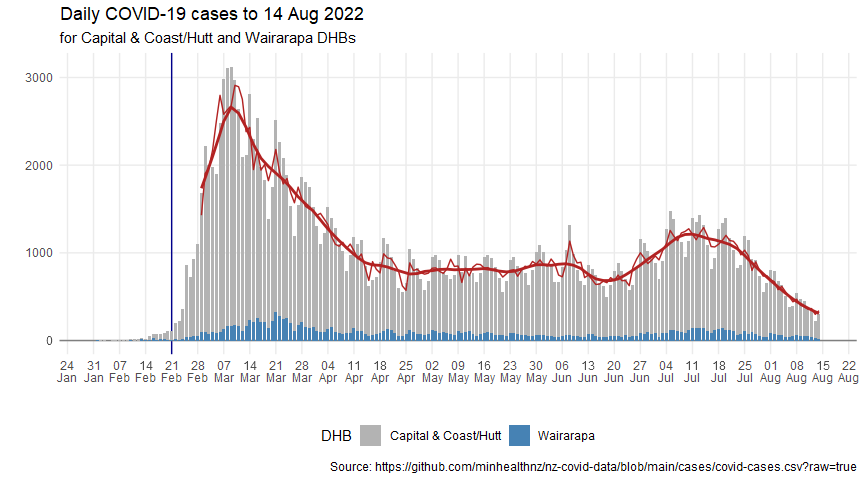
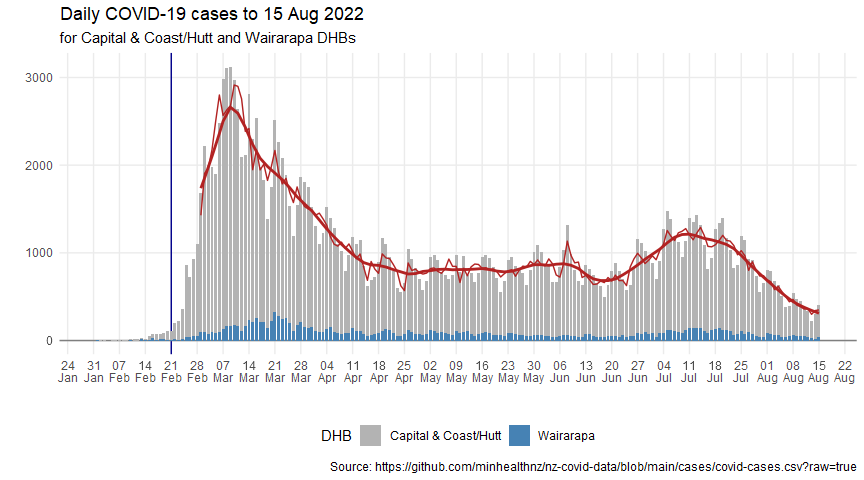
Update for 20220816

diff --git a/covid-post-peak-analysis.md b/covid-post-peak-analysis.md
@@ -29,7 +29,7 @@ cases_df <- read_csv(case_data_url) %>%
   clean_names()
 ```
 
-    ## Rows: 1691261 Columns: 7
+    ## Rows: 1696239 Columns: 7
     ## ── Column specification ────────────────────────────────────────────────────────
     ## Delimiter: ","
     ## chr  (5): Case Status, Sex, Age group, DHB, Overseas travel
@@ -46,7 +46,7 @@ cases_by_dhb_df <- cases_df %>%
   count(report_date, dhb, case_status)
 ```
 
-## Wellington figures up to 14 Aug 2022
+## Wellington figures up to 15 Aug 2022
 
 Including Hutt and Wairarapa as well as CCDHB.
 
@@ -170,8 +170,8 @@ maxima <- dhb_cases_after_transform_stl_df %>%
 Looking at raw case numbers, the peak on 9 Mar 2022 was about 13.8 times
 the lowest recent value.
 
-But when adjusting for the weekly pattern, it was 9.8 times the lowest
-recent adjusted value, and the trend was about 8.6 times the lowest
+But when adjusting for the weekly pattern, it was 9.7 times the lowest
+recent adjusted value, and the trend was about 8.5 times the lowest
 recent trend line.
 
 While the trend might be over-smoothed, the peak coincinded with the
